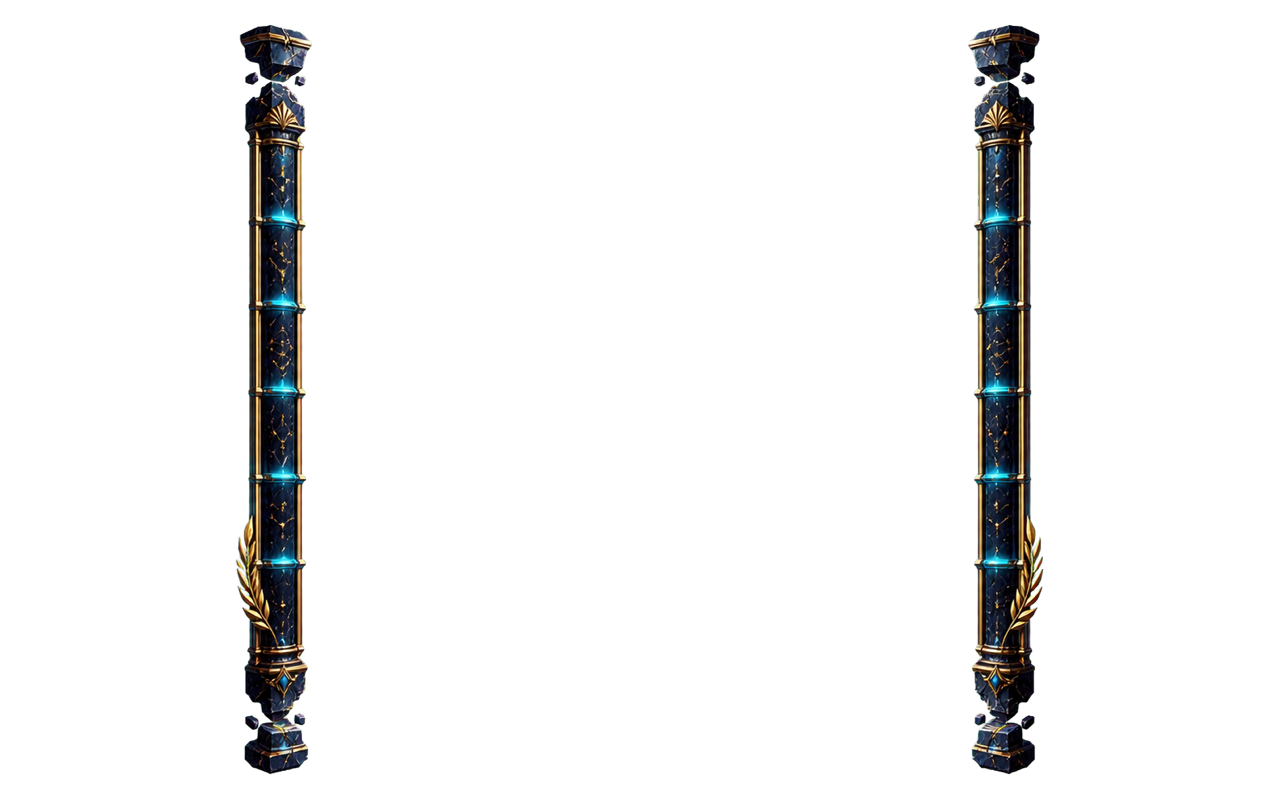
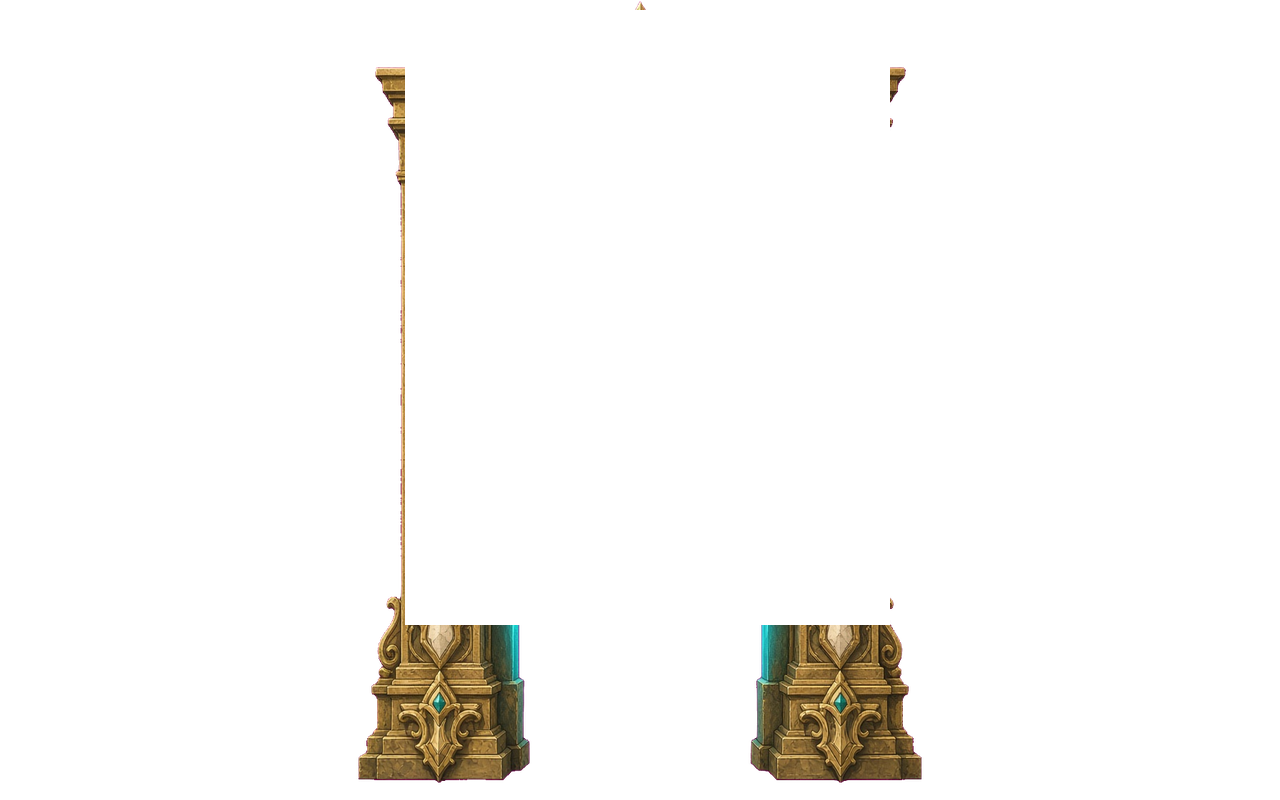
Show Veil, Lucid, and Trickster chrome in the board language.
Replace the photoreal Dreamfall shaft with gold/ivory pillars.
Keep cell position-grid plates and Dreamfall reel-ascent meters.

diff --git a/runtime/stake-studio-source/src/editor/preview/PreviewPanel.js b/runtime/stake-studio-source/src/editor/preview/PreviewPanel.js
@@ -172,6 +172,7 @@ export class PreviewPanel {
     this.featurePositionGridPulse = new Set();
     this.featureSymbolMultipliers = new Map();
     this.featureReelRows = new Map();
+    this.featureVeilBar = { family: '', current: 0, threshold: 4 };
     this.oneiricStarTargetLock = null;
     this.playbackTrace = [];
     this.playbackStartedAt = 0;
@@ -423,6 +424,12 @@ export class PreviewPanel {
       if (!noMotion) this.pulseMechanicCells(payload.targetPositions, 'is-mechanic-target');
       if (!immediate && command.durationMs) await this.wait(command.durationMs);
     } else if (sourceEvent.type === 'symbolBarProgress') {
+      this.featureVeilBar = {
+        family: payload.symbolFamily || '',
+        current: Number(payload.current) || 0,
+        threshold: Math.max(1, Number(payload.threshold) || 4),
+      };
+      this.syncFeatureChrome();
       this.updateFeatureMechanic(`VEIL ASCENT · ${this.label(payload.symbolFamily)} ${payload.previous} → ${payload.current} / ${payload.threshold}`);
       if (!noMotion) this.pulseMechanicCells(payload.hits, 'is-mechanic-target');
       if (!immediate && command.durationMs) await this.wait(command.durationMs);
@@ -1618,6 +1625,7 @@ export class PreviewPanel {
         <small id="previewFeatureTotal"></small>
         <em id="previewFeatureMechanic"></em>
       </div>
+      ${this.renderFeatureChrome()}
       ${this.isMorpheusDreamfallWorldActive() ? `
         <section id="previewDreamfallHud" class="dreamfall-hud" aria-live="polite" data-status="${this.esc(this.morpheusDreamfallState?.status || 'ready')}" style="--dreamfall-hud-art:url('${this.esc(hud.art.modeCard || '')}')">
           ${dreamMaskArt ? `<img class="dreamfall-hud-emblem" src="${this.esc(dreamMaskArt)}" alt="" draggable="false">` : ''}
@@ -1634,6 +1642,65 @@ export class PreviewPanel {
         </section>` : ''}
       ${this.renderPlayerOverlays()}
     `;
+  }
+
+  payingFamilies() {
+    return (this.project.theme?.symbols || []).filter((symbol) => {
+      const special = symbol.special || [];
+      return symbol.tier !== 'special' && !special.some((flag) => /wild|scatter|bomb|split|purge|star|mystery|empty/i.test(flag));
+    });
+  }
+
+  renderFeatureChrome() {
+    if (this.isMorpheusDreamfallWorldActive()) return '';
+    const mode = this.selectedMode;
+    const gridMode = this.featurePositionGridMode;
+    const showVeil = mode === 'veil_ascent';
+    const showLucid = mode === 'lucid_blessing';
+    const showGrid = mode === 'trickster_dream' || gridMode === 'trickster_dream' || gridMode === 'oneiric_nexus';
+    if (!showVeil && !showLucid && !showGrid) return '';
+    const title = showVeil ? 'VEIL ASCENT' : showLucid ? 'LUCID BLESSING' : gridMode === 'oneiric_nexus' ? 'ONEIRIC NEXUS' : 'TRICKSTER DREAM';
+    const fill = Math.max(0, Math.min(1, this.featureVeilBar.current / (this.featureVeilBar.threshold || 4)));
+    const lucid = this.payingFamilies().map((symbol) => {
+      const multiplier = this.featureSymbolMultipliers.get(symbol.id) || this.featureSymbolMultipliers.get(symbol.name) || 1;
+      return `<i data-family="${this.esc(symbol.id || symbol.name)}" class="${multiplier > 1 ? 'is-charged' : ''}"><img src="${this.esc(symbol.src || '')}" alt=""><b>${multiplier}×</b></i>`;
+    }).join('');
+    const charged = [...this.featurePositionMultipliers.values()].filter((value) => Number(value) > 1).length;
+    return `
+      <aside id="previewFeatureChrome" class="preview-feature-chrome" data-mode="${this.esc(showVeil ? 'veil_ascent' : showLucid ? 'lucid_blessing' : gridMode || 'trickster_dream')}" aria-live="polite">
+        <header><small>FEATURE</small><strong>${title}</strong></header>
+        ${showVeil ? `<div class="feature-chrome-veil"><small>SYMBOL BAR${this.featureVeilBar.family ? ` · ${this.esc(this.label(this.featureVeilBar.family))}` : ''}</small><div class="feature-chrome-bar"><i style="width:${(fill * 100).toFixed(1)}%"></i></div><b>${this.featureVeilBar.current} / ${this.featureVeilBar.threshold}</b></div>` : ''}
+        ${showLucid ? `<div class="feature-chrome-lucid"><small>FAMILY MULTIPLIERS</small><div>${lucid}</div></div>` : ''}
+        ${showGrid ? `<div class="feature-chrome-grid"><small>POSITION GRID</small><b>${charged || 0} CHARGED · CELLS DOUBLE AFTER A WIN</b></div>` : ''}
+      </aside>`;
+  }
+
+  syncFeatureChrome() {
+    const chrome = this.container.querySelector('#previewFeatureChrome');
+    if (!chrome) return;
+    if (chrome.dataset.mode === 'veil_ascent') {
+      const fill = Math.max(0, Math.min(1, this.featureVeilBar.current / (this.featureVeilBar.threshold || 4)));
+      const bar = chrome.querySelector('.feature-chrome-bar i');
+      const copy = chrome.querySelector('.feature-chrome-veil b');
+      const family = chrome.querySelector('.feature-chrome-veil small');
+      if (bar) bar.style.width = `${(fill * 100).toFixed(1)}%`;
+      if (copy) copy.textContent = `${this.featureVeilBar.current} / ${this.featureVeilBar.threshold}`;
+      if (family) family.textContent = `SYMBOL BAR${this.featureVeilBar.family ? ` · ${this.label(this.featureVeilBar.family)}` : ''}`;
+    }
+    if (chrome.dataset.mode === 'lucid_blessing') {
+      chrome.querySelectorAll('.feature-chrome-lucid i').forEach((node) => {
+        const id = node.dataset.family;
+        const multiplier = this.featureSymbolMultipliers.get(id) || 1;
+        node.classList.toggle('is-charged', multiplier > 1);
+        const label = node.querySelector('b');
+        if (label) label.textContent = `${multiplier}×`;
+      });
+    }
+    if (chrome.dataset.mode === 'trickster_dream' || chrome.dataset.mode === 'oneiric_nexus') {
+      const charged = [...this.featurePositionMultipliers.values()].filter((value) => Number(value) > 1).length;
+      const copy = chrome.querySelector('.feature-chrome-grid b');
+      if (copy) copy.textContent = `${charged} CHARGED · CELLS DOUBLE AFTER A WIN`;
+    }
   }
 
   selectPlayerMode(name) {
@@ -4111,6 +4178,7 @@ export class PreviewPanel {
       }
     }
     this.featurePositionGridPulse.clear();
+    this.syncFeatureChrome();
   }
 
   collectPositionGridLayoutProof() {
@@ -4166,9 +4234,11 @@ export class PreviewPanel {
     this.featurePositionGridPulse.clear();
     this.featureSymbolMultipliers.clear();
     this.featureReelRows.clear();
+    this.featureVeilBar = { family: '', current: 0, threshold: 4 };
     this.updateFeatureMechanic('');
     this.syncReelLayout(this.project.math.grid.rows);
     this.syncFeatureStateMarkers();
+    this.syncFeatureChrome();
   }
 
   async playSpecialMechanicEvent(event, board = this.board) {

diff --git a/runtime/stake-studio-source/src/styles.css b/runtime/stake-studio-source/src/styles.css
@@ -940,13 +940,44 @@ html, body { height: 100%; background: var(--bg); color: var(--text); font-famil
 .preview-stage[data-world-state="verdict"] .preview-character-rays { opacity: .44; animation: preview-character-rays 9s linear infinite; background: repeating-conic-gradient(from 12deg, var(--character-glow-soft) 0deg 4deg, transparent 4deg 23deg); }
 
 .preview-reel-impact { position: absolute; z-index: 58; width: 3px; pointer-events: none; background: linear-gradient(transparent, #ffe0a2 28%, #ff4a13 72%, transparent); box-shadow: 0 0 16px #ff5818, 0 0 38px rgba(255,78,18,.76); transform: translateX(-50%) scaleY(.2); transform-origin: center; animation: preview-reel-impact .3s ease-out both; }
-.preview-feature-progress { position: absolute; left: 50%; bottom: 18.5%; z-index: 82; display: flex; align-items: baseline; gap: 10px; transform: translate(-50%, 8px); opacity: 0; padding: 7px 15px; border: 1px solid rgba(226,159,74,.35); border-radius: 999px; background: rgba(8,4,3,.86); box-shadow: 0 8px 24px #000; pointer-events: none; transition: opacity .2s, transform .2s; }
+.preview-feature-progress { position: absolute; left: 50%; bottom: 18.5%; z-index: 82; display: flex; align-items: baseline; gap: 10px; transform: translate(-50%, 8px); opacity: 0; padding: 7px 15px; border: 1px solid rgba(126, 231, 234, .38); border-radius: 999px; background: rgba(4, 8, 16, .88); box-shadow: 0 8px 24px #000, 0 0 12px rgba(80, 220, 230, .18); pointer-events: none; transition: opacity .2s, transform .2s; }
 .preview-feature-progress.is-visible { opacity: 1; transform: translate(-50%, 0); }
-.preview-feature-progress span { color: #f07b44; font-size: 10px; font-weight: 950; letter-spacing: 1.5px; text-transform: uppercase; }
-.preview-feature-progress strong { color: #ffe1a8; font-size: 13px; letter-spacing: 1px; }
-.preview-feature-progress small { color: #d7a45f; font-size: 10px; font-weight: 800; }
+.preview-feature-progress span { color: #7ee7ea; font-size: 10px; font-weight: 950; letter-spacing: 1.5px; text-transform: uppercase; }
+.preview-feature-progress strong { color: #f3d99c; font-size: 13px; letter-spacing: 1px; }
+.preview-feature-progress small { color: #d4b06c; font-size: 10px; font-weight: 800; }
 .preview-feature-progress em { display: none; max-width: 360px; color: #8aefff; font-size: 9px; font-style: normal; font-weight: 900; letter-spacing: 1px; text-transform: uppercase; }
 .preview-feature-progress em.is-visible { display: inline; }
+.preview-feature-chrome {
+  position: absolute;
+  z-index: 81;
+  top: 14px;
+  left: 14px;
+  width: 236px;
+  padding: 12px 14px 13px;
+  box-sizing: border-box;
+  border: 1px solid rgba(212, 176, 108, .42);
+  border-radius: 14px;
+  background:
+    linear-gradient(180deg, rgba(18, 24, 36, .92), rgba(4, 8, 14, .94)),
+    url('/assets/morpheus-mode-card-v1.png') center / 140% 140% no-repeat;
+  color: #e9f8fb;
+  pointer-events: none;
+  box-shadow: 0 10px 22px rgba(0, 0, 0, .62), inset 0 0 18px rgba(80, 220, 230, .08);
+}
+.preview-feature-chrome header { display: flex; align-items: baseline; justify-content: space-between; gap: 8px; margin-bottom: 8px; }
+.preview-feature-chrome header small { color: #7ee7ea; font-size: 8px; font-weight: 900; letter-spacing: .18em; }
+.preview-feature-chrome header strong { color: #f3d99c; font-family: Georgia, serif; font-size: 13px; letter-spacing: .06em; }
+.feature-chrome-veil, .feature-chrome-lucid, .feature-chrome-grid { display: grid; gap: 5px; }
+.feature-chrome-veil small, .feature-chrome-lucid small, .feature-chrome-grid small { color: #91aab2; font-size: 8px; font-weight: 800; letter-spacing: .1em; }
+.feature-chrome-bar { height: 10px; overflow: hidden; border: 1px solid rgba(126, 231, 234, .4); border-radius: 999px; background: rgba(1, 5, 12, .78); }
+.feature-chrome-bar i { display: block; height: 100%; width: 0; background: linear-gradient(90deg, #d4b06c, #7ee7ea); box-shadow: 0 0 8px rgba(80, 220, 230, .55); }
+.feature-chrome-veil b, .feature-chrome-grid b { color: #fff3c7; font-size: 11px; font-variant-numeric: tabular-nums; }
+.feature-chrome-lucid > div { display: grid; grid-template-columns: repeat(4, minmax(0, 1fr)); gap: 4px; }
+.feature-chrome-lucid i { position: relative; display: grid; place-items: center; aspect-ratio: 1; border: 1px solid rgba(212, 176, 108, .28); border-radius: 8px; background: rgba(2, 8, 16, .7); }
+.feature-chrome-lucid i img { width: 72%; height: 72%; object-fit: contain; }
+.feature-chrome-lucid i b { position: absolute; right: 2px; bottom: 2px; color: #c9d4da; font-size: 8px; }
+.feature-chrome-lucid i.is-charged { border-color: rgba(238, 190, 89, .9); box-shadow: 0 0 8px rgba(238, 190, 89, .4); }
+.feature-chrome-lucid i.is-charged b { color: #ffe69a; }
 
 .feature-result-celebration { position: absolute; inset: 0; z-index: 78; display: flex; flex-direction: column; align-items: flex-start; justify-content: center; padding-left: 19%; pointer-events: none; background: radial-gradient(ellipse at 35% 50%, rgba(112,17,7,.94), rgba(5,2,2,.86) 48%, transparent 76%); text-shadow: 0 3px 18px #000; }
 .feature-result-celebration.has-authored-art { align-items: center; padding-left: 0; background: #02050b; text-align: center; }

diff --git a/MOTION_PLAY_HANDOFF.md b/MOTION_PLAY_HANDOFF.md
@@ -2,7 +2,7 @@
 
 **Date:** 2026-08-20  
 **Branch:** `integrate/studio-motion`  
-**HEAD:** see latest commit on this branch — *selectable mode menu.*  
+**HEAD:** see latest commit on this branch — *feature chrome + Dreamfall shaft.*  
 **Repo:** https://github.com/iamendless777/superslotstudio  
 **Local path:** `~/Developer/superslotstudio`  
 **Goal:** Ship many Stake.com games quickly (target ~2 days each). Motion + templates stay reliable so the bottleneck is **art**, not fighting the studio.
@@ -170,8 +170,8 @@ Forge is the *feel* reference. Morpheus `MorpheusGameContract.js` is the *rules*
 
 1. Special tiles (Veil/Lucid/Rift/Split/Purge/Star/Mystery/Max) — paying board is done. Pack is on the reels.
 2. Selectable mode menu: Base, Enhancer, Trickster, Veil Ascent, Lucid Blessing. Dreamfall/Nexus/Nightmare stay gated. **Done.**
-3. Feature chrome: Veil symbol bar, Lucid family multis, Dreamfall reel growth, Nexus/Trickster position grid.
-4. Restyle the old photoreal Dreamfall shaft overlay.
+3. Feature chrome: Veil symbol bar, Lucid family multis, Dreamfall reel growth, Nexus/Trickster position grid. **Done in Preview.**
+4. Restyle the old photoreal Dreamfall shaft overlay. **Done.**
 5. Hold-length feel (`anticipationHoldMs`) — human call.
 
 Do not invent a 2000x “F U Spins” buy. Do not revive GSAP travel / fake scatters / last-reel-only / HTML overlay grid.
@@ -325,7 +325,7 @@ Studio Preview remains **pixel** authority — one tumble, one spin-track.
 - [x] Morpheus **board** symbol pack from the brief (moon / lantern / hourglass / moth / star / crescent / coins / wild seal / Gate of Sleep). Atlas **Apply board pack** fills empty slots only.
 - [x] HUD / spin / mode-card chrome uses the same ivory–gold–cyan language. Old photoreal atlas + generation sources deleted.
 - [x] Slop pass: spin plate is concentric rings (no double arrow). Wild is a sleeping-eye seal (no letter). Hourglass and coins have finished frames (no skulls).
-- [x] Selectable mode menu: Base 1x, Dream Enhancer 3x, Trickster Dream 75x, Veil Ascent 100x, Lucid Blessing 200x. Dreamfall / Nexus / Nightmare are governed, not wager cards.
+- [x] Feature chrome in Preview: Veil symbol bar, Lucid family multipliers, Trickster/Nexus grid legend. Dreamfall keeps its reel-ascent HUD. Photoreal shaft overlay replaced.
 - [ ] If 1.2s/waiting-reel feels short or long, change **one** number: `anticipationHoldMs`. Do not special-case the last reel.
 - [ ] Swap in final commissioned art over the starter pack; keep motion.
 
@@ -472,7 +472,8 @@ Continue Stake Studio from `integrate/studio-motion` (pull first). Read `MOTION_
 Recent commits (newest first):
 
 ```
-this commit  Selectable Forge-mapped mode menu.
+this commit  Feature chrome and Dreamfall shaft in the board language.
+169f6ce Open the five approved Morpheus modes.
 7becccd Map Forge specials onto Morpheus tiles.
 f4ab72c Match HUD chrome to the board pack.
 3f75a34 Put Morpheus board art on the tiles.
